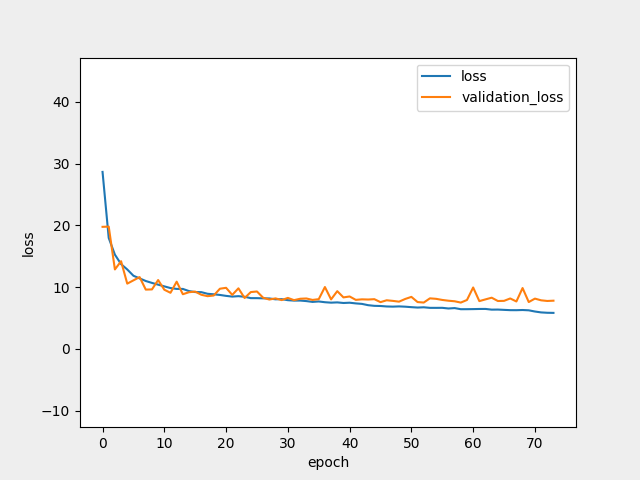
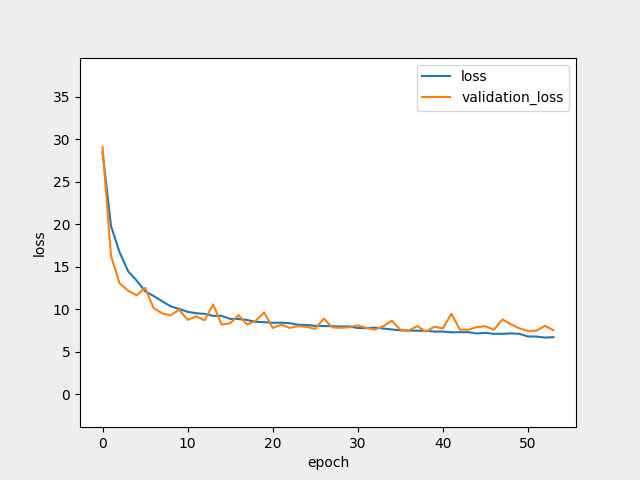
change model architecture

diff --git a/model/BoneageModel.py b/model/BoneageModel.py
@@ -18,17 +18,17 @@ class BoneAgeNet(nn.Module):
         # Backbone
 
         self.efficientnet_v2 = efficientnetv2_s(in_chans=1, drop_rate=0.1, drop_path_rate=0.1)
-        self.efficientnet_v2.global_pool = nn.AdaptiveAvgPool2d(3)
+        self.efficientnet_v2.global_pool = nn.AdaptiveAvgPool2d(2)
         self.efficientnet_v2.classifier = nn.Identity()
         self.flatten1 = nn.Flatten()
 
         # Gender
-        self.gender = nn.Linear(1,32)
+        self.gender = nn.Linear(1,16)
         self.gen_swish = nn.SiLU(inplace=True)
         self.flatten2 = nn.Flatten()
 
         # FC Layer
-        self.fc_1 = nn.Linear(11552, 1000)
+        self.fc_1 = nn.Linear(5136, 1000)
         self.swish1 = nn.SiLU(inplace=True)
 
         self.fc_2 = nn.Linear(1000,1000)

diff --git a/test.py b/test.py
@@ -75,7 +75,7 @@ def eval(model, test_data):
 if __name__ == '__main__':
     freeze_support()
 
-    checkpoint = torch.load(save_path+'BEST_MODEL-epoch-59-val_loss-7.5067.pt')
+    checkpoint = torch.load(save_path+'BEST_MODEL-epoch-39-val_loss-7.3768.pt')
     model.load_state_dict(checkpoint['model_state_dict'])
 
     print('{}\n==============================test start==============================\n'.format(datetime.datetime.now()))
